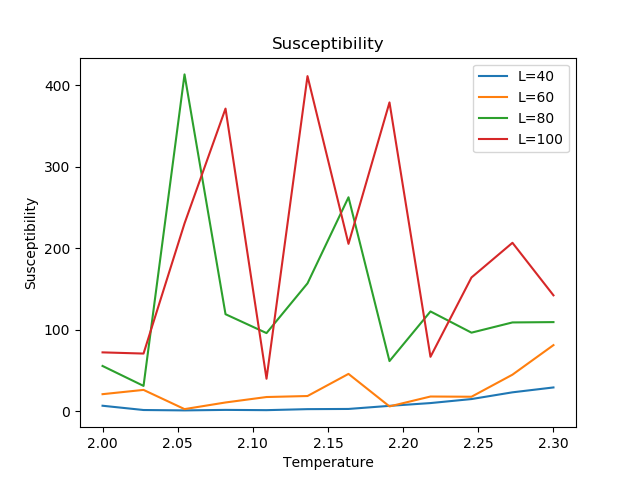
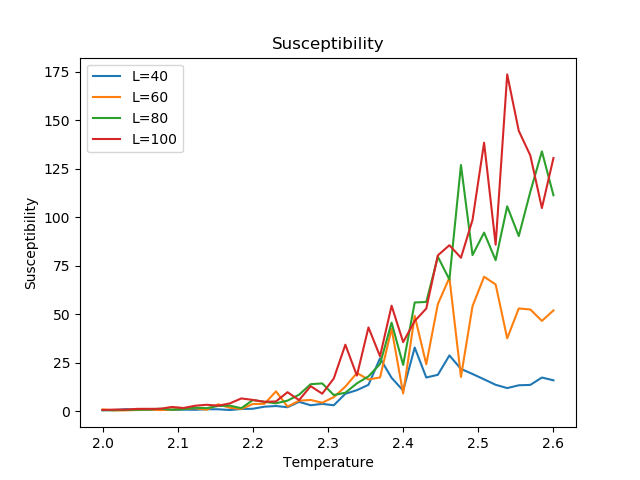
nye plot

diff --git a/Project4/phase_transitions_mpi.cpp b/Project4/phase_transitions_mpi.cpp
@@ -13,15 +13,15 @@ using namespace arma;
 
 int main(int argc, char * argv[]){
 	// Initial values
-	const int n = 11; // Number of temperature steps -1
-	int N = 1e8; // Number of MC cycles
+	const int n = 40; // Number of temperature steps -1
+	int N = 1e6; // Number of MC cycles
 	int L[4] = {40, 60, 80, 100}; // Dimensions
 	const int l = 4; // Number of different sizes
 
 	// Setting up initial values and linear spacing of T
 	vector<double> T;
 	double T0 = 2;
-	double Tmax = 2.3;
+	double Tmax = 2.6;
 	double dT = (Tmax-T0)/(double) n;
 	for (int i = 0; i <= n; i++){
 		T.push_back(T0+i*dT);
@@ -35,7 +35,7 @@ int main(int argc, char * argv[]){
 
 	// Set up local matrices for current process
 	double local_E_mean[l][n+1] = {0};
-	double local_M_abs_mean[l][n+1] = {0};  
+	double local_M_abs_mean[l][n+1] = {0};
 	double local_specific_heat[l][n+1] = {0};
 	double local_suceptibility[l][n+1] = {0};
 
@@ -46,12 +46,12 @@ int main(int argc, char * argv[]){
 	if ((rank == numprocs-1) && (rank_end < n)) rank_end = n;
 
 	// Set up a progress bar
-	ProgressBar progressBar(l*(n+1), 80);
+	ProgressBar progressBar((l*(n+1))/3, 80);
 
 	double wtime = MPI_Wtime();
 	for (int i = 0; i < l; i++){ // Loop over the dimensions
 		for (int k = rank_begin; k <= rank_end; k++){ // Loop over the temperatures
-			vector<double> results = MonteCarloIsing(N, true, T[k], L[i]);
+			vector<double> results = MonteCarloIsing(N, false, T[k], L[i]);
 
 			// Populate our local results
 			local_E_mean[i][k]        = results[0];
@@ -64,10 +64,10 @@ int main(int argc, char * argv[]){
 		}
 	}
 	progressBar.done();
-	
+
 	// Set up the global results matrices
 	double E_mean[l][n+1] = {0};
-	double M_abs_mean[l][n+1] = {0};  
+	double M_abs_mean[l][n+1] = {0};
 	double specific_heat[l][n+1] = {0};
 	double suceptibility[l][n+1] = {0};
 

diff --git a/Project4/final_plot.py b/Project4/final_plot.py
@@ -5,18 +5,18 @@ import numpy as np
 """
 For
 """
-infile = open('phase_transitions_FINAL.data', 'r')
+infile = open('phase_transitions.dat', 'r')
 infile.readline()
 infile.readline()
 infile.readline()
 
-E_mean = np.zeros((4,12))
-M_mean = np.zeros((4,12))
-specific_heat = np.zeros((4,12))
-suceptibility = np.zeros((4,12))
+E_mean = np.zeros((4,40))
+M_mean = np.zeros((4,40))
+specific_heat = np.zeros((4,40))
+suceptibility = np.zeros((4,40))
 
 
-for k in range(12):
+for k in range(40):
     for i in range(4):
         data = infile.readline()
         line = data.split()
@@ -27,7 +27,7 @@ for k in range(12):
     infile.readline()
     infile.readline()
 
-T = np.linspace(2, 2.3, 12)
+T = np.linspace(2, 2.6, 40)
 
 
 plt.plot(T, E_mean[0], label='L=40')
